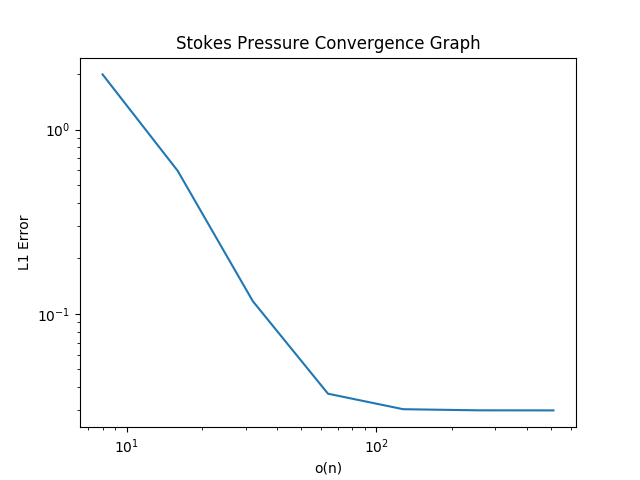
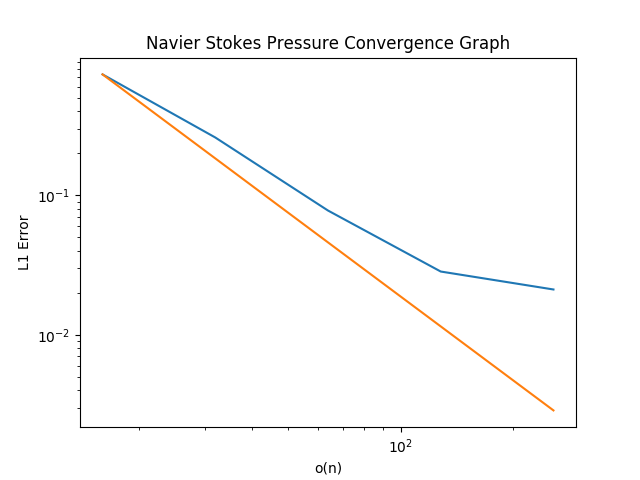
final additions to report content

diff --git a/report/workings/Report.tex b/report/workings/Report.tex
@@ -20,7 +20,7 @@
 \section{Abstract}
 The aim of this project is to build on previous research and develop an efficient steady Navier-Stokes solver. Utilizing a Lagragian preconditioner described Patrick et al in \textit{An Augmented Lagrangian Preconditioner For The 3D Stationary Incompressible Navier–Stokes Equation At High Reynolds Number}, the grad-div stabilization method described by Olshanskii et al in \textit{Grad-div stabilization for Stokes equations} and the BDM/DG discretization of the $H_{div}$ space we obtained a working Stokes and Navier-Stokes solver and discussed the derivation of it's weak form.\\
 The primary advantage of the $H_{div}$ space is that the divergence free requirement of the continuity equation is satisfied exactly globally. This allows the Schur Complement to be exactly determined rather than approximated as in Patrick et al's paper.
-We then noticed that at high Reynold's number the Navier-Stokes solver tended to fail. Hence we developed a continuation method which decreases computational cost and extends the Reynold's number for which the solver works.\\
+We then noticed that at high Reynolds number the Navier-Stokes solver tended to fail. Hence we developed a continuation method which decreases computational cost and extends the Reynolds number for which the solver works.\\
 We demonstrated all of the above in various test cases. \\
 Finally we gave a summary of possible future improvements.
 \clearpage
@@ -410,7 +410,7 @@ In some circumstances however even with a variable step-size in $c$ we fail to o
 
 \subsection{Unsteady Navier-Stokes}
 
-While we are mainly interested in the steady-state solution of the Navier-Stokes equation we also may want to consider whether or not the solution is stable. To that end we need to solve a full unsteady Navier-Stokes, including the time derivative. This will be used to determine if small perturbations of the solution die down or blow up. Unfortunately we were unsuccesfull in our attempt at writing the time-stepping method. We will still describe the theory and aims for future research.
+While we are mainly interested in the steady-state solution of the Navier-Stokes equation we also may want to consider whether or not the solution is stable. To that end we need to solve a full unsteady Navier-Stokes, including the time derivative. This will be used to determine if small perturbations of the solution die down or blow up. While there was unsufficient time to complete testing of this section we will still describe the work we did for future research.
 
 \subsubsection{Time Stepping}
 First we need to write an algorithm which can time-step the unsteady Navier-Stokes equations.\\
@@ -443,73 +443,93 @@ Instead we will use a far simpler algorithm.
 We will consider random perturbations and then use the time stepping method above to see if they grow.
 
 \section{Test Cases}
-In this section we will consider various test cases to verify convergence of the algorithm at expected rates and demonstrate its ability to resolve various complex problems in complex non-uniform domains.
+In this section we will consider test cases to verify convergence of the algorithm, convergence rates, the ability to resolve flow problems around complex shapes and whether it can find unstable steady state solutions.\\
+We will start by doing a convergence test on the Stokes solver. Then we will proceed to study the convergence test of the Navier-Stokes solver. Lastly we will consider the flow about a cylinder.
 \subsection{Stokes Convergence}
 
 Once again we will primarily focus on the Stokes equation (9-10) in order to verify that this part of our discretization is working as intended and has the required convergence rate.\\
 We will consider a manufactured solution, an artificial solution we selected in advance. Take $u_x = \sin(2 \pi y) \cos(2 \pi y)*\sin(2 \pi x)^2$, $u_y= -\sin(2 \pi x) \cos(2 \pi x) \sin(2 \pi y)^2$ and $p = \sin(2 \pi x) \sin(2 \pi y)$.\\
 We then adjust the boundary conditions and forcing term appropriately for this solution to hold.\\
  The forcing term thus becomes :$F = \nabla p - \mu \nabla^2 u$.\\
-Figures and show us the convergence graphs in velocity and pressure.\\
-This shows that the preconditioning and discretization holds as expected for the Stokes equation if boundary conditions are $0$.
+Figures 4 and 5 show us the convergence graphs in velocity and pressure.\\
+Both figures indicate a minimum order 2 convergence, as expected given that we used a BDM2-DG1 space. Given the number of variables involved in both spaces for each triangle we want them to have an order 2 convergence as otherwise other spaces would be more appropriate.
 \\
 
 \begin{figure}
   \includegraphics[width=\linewidth]{stokes_convergence_dbc0.png}
-  \caption{DG1-BDM2 Stokes velocity convergence plot of velocity error against resolution. We expected order 2 convergence and obtained order 3 convergence. The super convergence is likely due to the symmetric nature of the test solution and the regulare mesh.}
+  \caption{DG1-BDM2 Stokes velocity convergence plot of velocity error against resolution. The blue curve indicates velocity error, the orange curve is a line of slope $-2$.  We expected order 2 convergence and obtained order 3 convergence. The super convergence is likely due to the symmetric nature of the test solution and the regular mesh.}
 \end{figure}
 
 \begin{figure}
 \includegraphics[width=\linewidth]{stokes_pressure_convergence_dbc0.png}
-  \caption{DG1-BDM2 Stokes pressure convergence plot of pressure error against resolution. We expected order 2 convergence and obtained order 3 convergence. The super convergence is likely due to the symmetric nature of the test solution and the regulare mesh.}
+  \caption{DG1-BDM2 Stokes pressure convergence plot of pressure error against resolution. The blue curve indicates pressure error, the orange curve is a line of slope $-2$.  Initially at low orders of $N$ the convergence isn't quite order 2. However as $N$ grows the order of convergence clearly is 2, indicating that this was just an anomaly due to low resolution.}
 \end{figure}
+
+
 
 \subsection{Navier-Stokes Convergence}
 
 We again use a manufactured solution to determine the convergence rate of our solver.
-We can re-use the first solution in the Stokes convergence test, $u_x = \sin(2 \pi y) \cos(2 \pi y)\sin(2 \pi x)^2$, $u_y= -\sin(2 \pi x) \cos(2 \pi x) \sin(2 \pi y)^2$ and $p = \sin(2 \pi x)^2 \sin(2 \pi y)^2$.\\
+We can re-use the manufactured solution in the Stokes convergence test, $u_x = \sin(2 \pi y)^5 \cos(2 \pi y)\sin(2 \pi x)^6$, $u_y= -\sin(2 \pi x)^5 \cos(2 \pi x) \sin(2 \pi y)^6$ and $p = \sin(2 \pi x)^2 \sin(2 \pi y)^2$.\\
 However the forcing term will now be $F = \nabla p - \mu \nabla^2 u + u \cdot \nabla u$.
 Plugging this into the equations we get that these do indeed solve the Navier-Stokes equations.\\
-Figures and show us the convergence graphs in velocity and pressure.\\
+Figures 5 and 6 show us the convergence graphs in velocity and pressure.\\
+We notice that initially we have the same behaviour as in the Stokes case. However we then see the error stopes decreasing. The cause of this is as of yet unkown and would require further research. We did note that changing the test solution and adjusting forcing we always obtain the same pressure error pattern, see figure 8. This probably should be studied when trying to understand and correct this issue.
 
 \begin{figure}
   \includegraphics[width=\linewidth]{navier_stokes_convergence_dbc0.png}
-  \caption{DG1-BDM2 Navier-Stokes velocity convergence plot of velocity error against resolution. As expected the velocity error decreases with a logarithmic slope of roughly 2, indicating order 2 convergence. We used the direct solver, not applying the continuation solver.}
+  \caption{DG1-BDM2 Navier-Stokes velocity convergence plot of velocity error against resolution.  The blue curve indicates velocity error, the orange curve is a line of slope $-2$.  The velocity error decreases with a logarithmic slope of roughly 2, indicating order 2 convergence, up to $10^{-5}$. The cause for the minimal error has not been found. given We used the direct solver, not applying the continuation solver.}
 \end{figure}
 
 \begin{figure}
 \includegraphics[width=\linewidth]{navier_stokes_pressure_convergence_dbc0.png}
-  \caption{DG1-BDM2 Stokes pressure convergence plot of pressure error against resolution. As expected the pressure error decreases with a logarithmic slope of roughly 2, indicating order 2 convergence. We used the direct solver, not applying the continuation solver.}
+  \caption{DG1-BDM2 Stokes pressure convergence plot of pressure error against resolution. The blue curve indicates pressure error, the orange curve is a line of slope $-2$. The convergence graph here has three phases. Similarly to the Stokes cases, we initially have a lower order convergence due to low number of triangles. Then we have a slope of $2$ as expected. Lastly we have a minimal error, which, as for the velocity, has an unkown cause and thus requires further study. We used the direct solver, not applying the continuation solver.}
 \end{figure}
 
-\subsection{Flow Between Concentric Circles}
-
-We will study this relatively simple problem as means to demonstrate the ability of our solver to work even on non-uniform arbitrary meshes and solve an unsteady problem.\\
-The problem takes place in the annulus between two concentric circles each rotating at a different speed. For our steady case we will consider unit circle rotating at speed $1$ and circle of radius $2$ rotating at speed $3$.
-From [16] we get that the general solution of the tangential velocity and pressure for this problem is of the form :
-\begin{align}
-u_{\phi} = C_1 r + \frac{C_2}{r} , \\
-p = \rho \int \frac{u_{\phi}^2}{r} dr + C .
-\end{align}
-From the above boundary conditions are $u_{\phi}(r=1) = 1$, $u_{\phi}(r=2) = 3$. Hence get :
-\begin{align*}
-C_1 = 1 - C_2 .
-\end{align*}
-Figures show pressure and velocity in this case.\\
-
-Now consider the outer circle initially immobile, but slowly accelerating until it reaches tangential speed of $3$. The velocity solution at different time steps is shown in figures.
+\begin{figure}
+  \includegraphics[width=\linewidth]{ns_fail_exp.png}
+  \caption{Pressure error using the modified base pressure, $p = \sin(2 \pi x)^2 \sin(2 \pi y)^2$, and adjusting forcing accordingly. This pattern seems to be repeated regardless of $p$ or $u$ in our tests provided boundary conditions remain the same (in all cases they are $0$).}
+\end{figure}
 
 \subsection{Flow Past a Cylinder}
 
-The flow past a cylinder is a well-known and studied flow with interesting properties, such as a change of stability of its steady solution at high Reynold's number.
+The flow past a cylinder is a well-known and studied flow with interesting properties, such as a change of stability of its steady solution at high Reynolds number.
+Our solver still converges to an acceptable error for the velocity fields in this problem.
 We will see how our solver resolves this flow to study if we can find unstable solutions and how effective our continuation method is.\\
 \\
-Figure shows the stokes solution to the problem.\\
-Similarly figures to show the solution with full advection at Reynolds numbers $Re = 50$, $25$, $12.5$ and $4$ respectively.\\
-At Reynolds numbers higher than our solver starts requiring to use the continuation method multiple times (by default it always first finds the Stokes solution). For instance we required to find the solution at $0 \%$, $25 \%$, $62.5\%$ and $100\%$ advection for $Re =50$, while we only required to find the solution at $0 \%$ and $100 \%$ advection for $Re = 4 $. Eventually the length of the continuation step goes below tolerance levels and our solver fails.\\
-According to [14] $Re = 50$ corresponds to the Reynolds numbers where the solution becomes unstable, suggesting that we can find unstable solutions.\\
-We reduce the Reynold's number by reducing the viscosity. As expected this makes the boundary layer about the cylinder smaller and smaller.\\
-As we performed our tests, we obtained that on a mesh of average triangle edge length $0.5$ we fail even with the continuation method (it goes below tolerance levels). This shows that our continuation method allows us to not only solve the problem more rapidly, by allowing us to use lower resolution meshes, but also extends the range of solvable Reynold's numbers.
+Figure 9 shows the stokes velocity solution to the problem.\\
+Similarly figures 10, 11 and 12 show the velocity solution with full advection at Reynolds numbers $Re = 50$, $25$, and $1$ respectively.\\
+We reduce the Reynolds number by reducing the viscosity. As expected this makes the boundary layer about the cylinder smaller and smaller.\\
+At Reynolds numbers higher than our solver starts requiring to use the continuation method multiple times (by default it always first finds the Stokes solution). For instance we required to find the solution at $0 \%$, $25 \%$, $62.5\%$ and $100\%$ advection for $Re =50$, while we only required to find the solution at $0 \%$ and $100 \%$ advection for $Re = 4 $.\\
+When setting a high Reynolds number, such as $Re = 500$, the solver fails.
+\begin{lstlisting}
+Reynolds Number =
+500.0
+Advection term is at 100%
+An Exception of type ConvergenceError has occurred. Reducing Step Size.
+Advection term is at 50.0%
+An Exception of type ConvergenceError has occurred. Reducing Step Size.
+Advection term is at 25.0%
+An Exception of type ConvergenceError has occurred. Reducing Step Size.
+Advection term is at 12.5%
+An Exception of type ConvergenceError has occurred. Reducing Step Size.
+Advection term is at 6.25%
+An Exception of type ConvergenceError has occurred. Reducing Step Size.
+Advection term is at 3.125%
+An Exception of type ConvergenceError has occurred. Reducing Step Size.
+Advection term is at 1.5625%
+An Exception of type ConvergenceError has occurred. Reducing Step Size.
+Advection term is at 0.78125%
+An Exception of type ConvergenceError has occurred. Reducing Step Size.
+Advection term is at 0.390625%
+An Exception of type ConvergenceError has occurred. Reducing Step Size.
+Advection term is at 0.1953125%
+An Exception of type ConvergenceError has occurred. Reducing Step Size.
+Too low step size, solver failed
+\end{lstlisting}
+The above output displays when we try this test. We can see the continuation method attempting to solve the problem but failing eventually due to to low step-size.\\
+According to [14] $Re = 50$ corresponds to the Reynolds numbers where the solution becomes unstable, suggesting that we can find unstable solutions and thus the failure described is not due to instability of our solution.\\
+As we performed our tests, we obtained that on a mesh of average triangle edge length $0.5$ with $Re = 48$ we fail in the same manner as for $Re = 500$. We can deduce two things from this. Firstly, it is likely that increasing the accuracy of the mesh would allow the solver to work even on high Reynolds number. Secondly, given that the continuation method is required even though it should only be called when the solver fails to converge whithin parameters, we can deduce that our continuation method allows us to extend the solvable Reynolds numbers for a given mesh accuracy. Depending on interpretation and available ressources this means our continuation method either extends solvable domains or improves speed.
 
 \begin{figure}
   \includegraphics[width=\linewidth]{scR50.png}
@@ -526,22 +546,30 @@ As we performed our tests, we obtained that on a mesh of average triangle edge l
   \caption{Navier-Stokes flow past a cylinder for $Re = 25$ obtained by the BDM2-DG1 solver. The mesh used has an average triangle edge length of $0.2$ in this figure. Notice that the boundary layer is getting smaller as $Re$ increases. Pressure is $0$, and thus doesn't figure here.}
 \end{figure}
 
+\begin{figure}
+  \includegraphics[width=\linewidth]{nscR1.png}
+  \caption{Navier-Stokes flow past a cylinder for $Re = 1$ obtained by the BDM2-DG1 solver. The mesh used has an average triangle edge length of $0.2$ in this figure. Notice that the boundary layer is getting smaller as $Re$ increases. Pressure is $0$, and thus doesn't figure here.}
+\end{figure}
+
+
+
 \section{Conclusion and Future Improvements}
 
 In this project we were interested in applications of the BDM/DG mixed finite element onto the steady Navier-Stokes equations.\\
 After briefly discussing the general finite element method and some introductory definitions and notations we decided to focus on the stokes equation. After assembling the weak form of the equation we then applied a Schur preconditioner to  improve efficiency.\\
 We then assembled a weak form of the Navier-Stokes equation but noted that directly using it wasn't optimal. As such we developed a continuation method with variable step-size to improve the algorithm's speed and expand the number of problems which it can solve.\\
 After this we made a rudimentary time-stepping method to study the stability of any solutions obtained.\\
-Finally we tested all of the above and concluded that our algorithm worked as anticipated.\\
+Finally we tested all of the above and concluded that our algorithm worked as anticipated and accomplished our objectives with the exception that the Navier-Stokes error seems to have a lower bound.\\
 \\
 \\
-However a number of future improvements could be made.
+A number of future improvements could be made.
 These would allow us to reduce computational cost, versatility and accuracy of our method.\\
 \\
+Firstly the cause of the lower bound of the Navier-Stokes solver needs to be found and removed if possible.\\
 We could use a multigrid method using our method as a smoother to get convergence to be less dependent on grid-size, dramatically reducing computational costs. Application of such a method was discussed, unfortunately the tools required for it are not currently compatible with our problem set (specifically Dirichelet boundary conditions).\\
-The variable step-size method is serviceable and can be considerably improved to reduce the total number of iterations and thus computational cost. There are a number of methods which from local conditions of the function could more efficiently determine an appropriate step-size. Our source on the continuation method [17] includes such improvements.\\
-Similarly the time-stepping method was designed exclusively for the stability test. For this purpose it works very well. However various improvements could be made for accuracy and speed. For instance we initially attempted to utilise a Newton iteration rather than a Picards iteration. However as the initial guess wasn't in the ball of convergence this method failed. Adding a few Newton iterations using the picards results as a starting point should give more accurate answers for time-dependent methods.\\
-Additionally the stability itself could be expanded to for instance consider the growth rate of an instability as well as determines unstable modes.\\
+The variable step-size method is serviceable and can be considerably improved to reduce the total number of iterations and thus computational cost. There are a number of methods which from local conditions of the function could more efficiently determine an appropriate step-size. Our source on the continuation method [17] includes descriptions of potential improvements.\\
+Similarly the time-stepping method mentioned was designed exclusively for the stability test. For this purpose it would work very well. However various improvements could be made for accuracy and speed. For instance we initially attempted to utilise a Newton iteration rather than a Picards iteration. However as the initial guess wasn't in the ball of convergence this method failed. Adding a few Newton iterations using the Picard results as a starting point should give more accurate answers for time-dependent methods.\\
+Additionally the stability itself could be expanded to, for instance, consider the growth rate of an instability as well as determines unstable modes.\\
 In some flows we may have multiple solutions or a bifurcation (that is the case for the cylinder flow at high Reynolds number). In this case a deflation method may be usefull. In this method, after finding a solution we "substract" it from the equation and thus seek other solutions.\\
 \\
 
